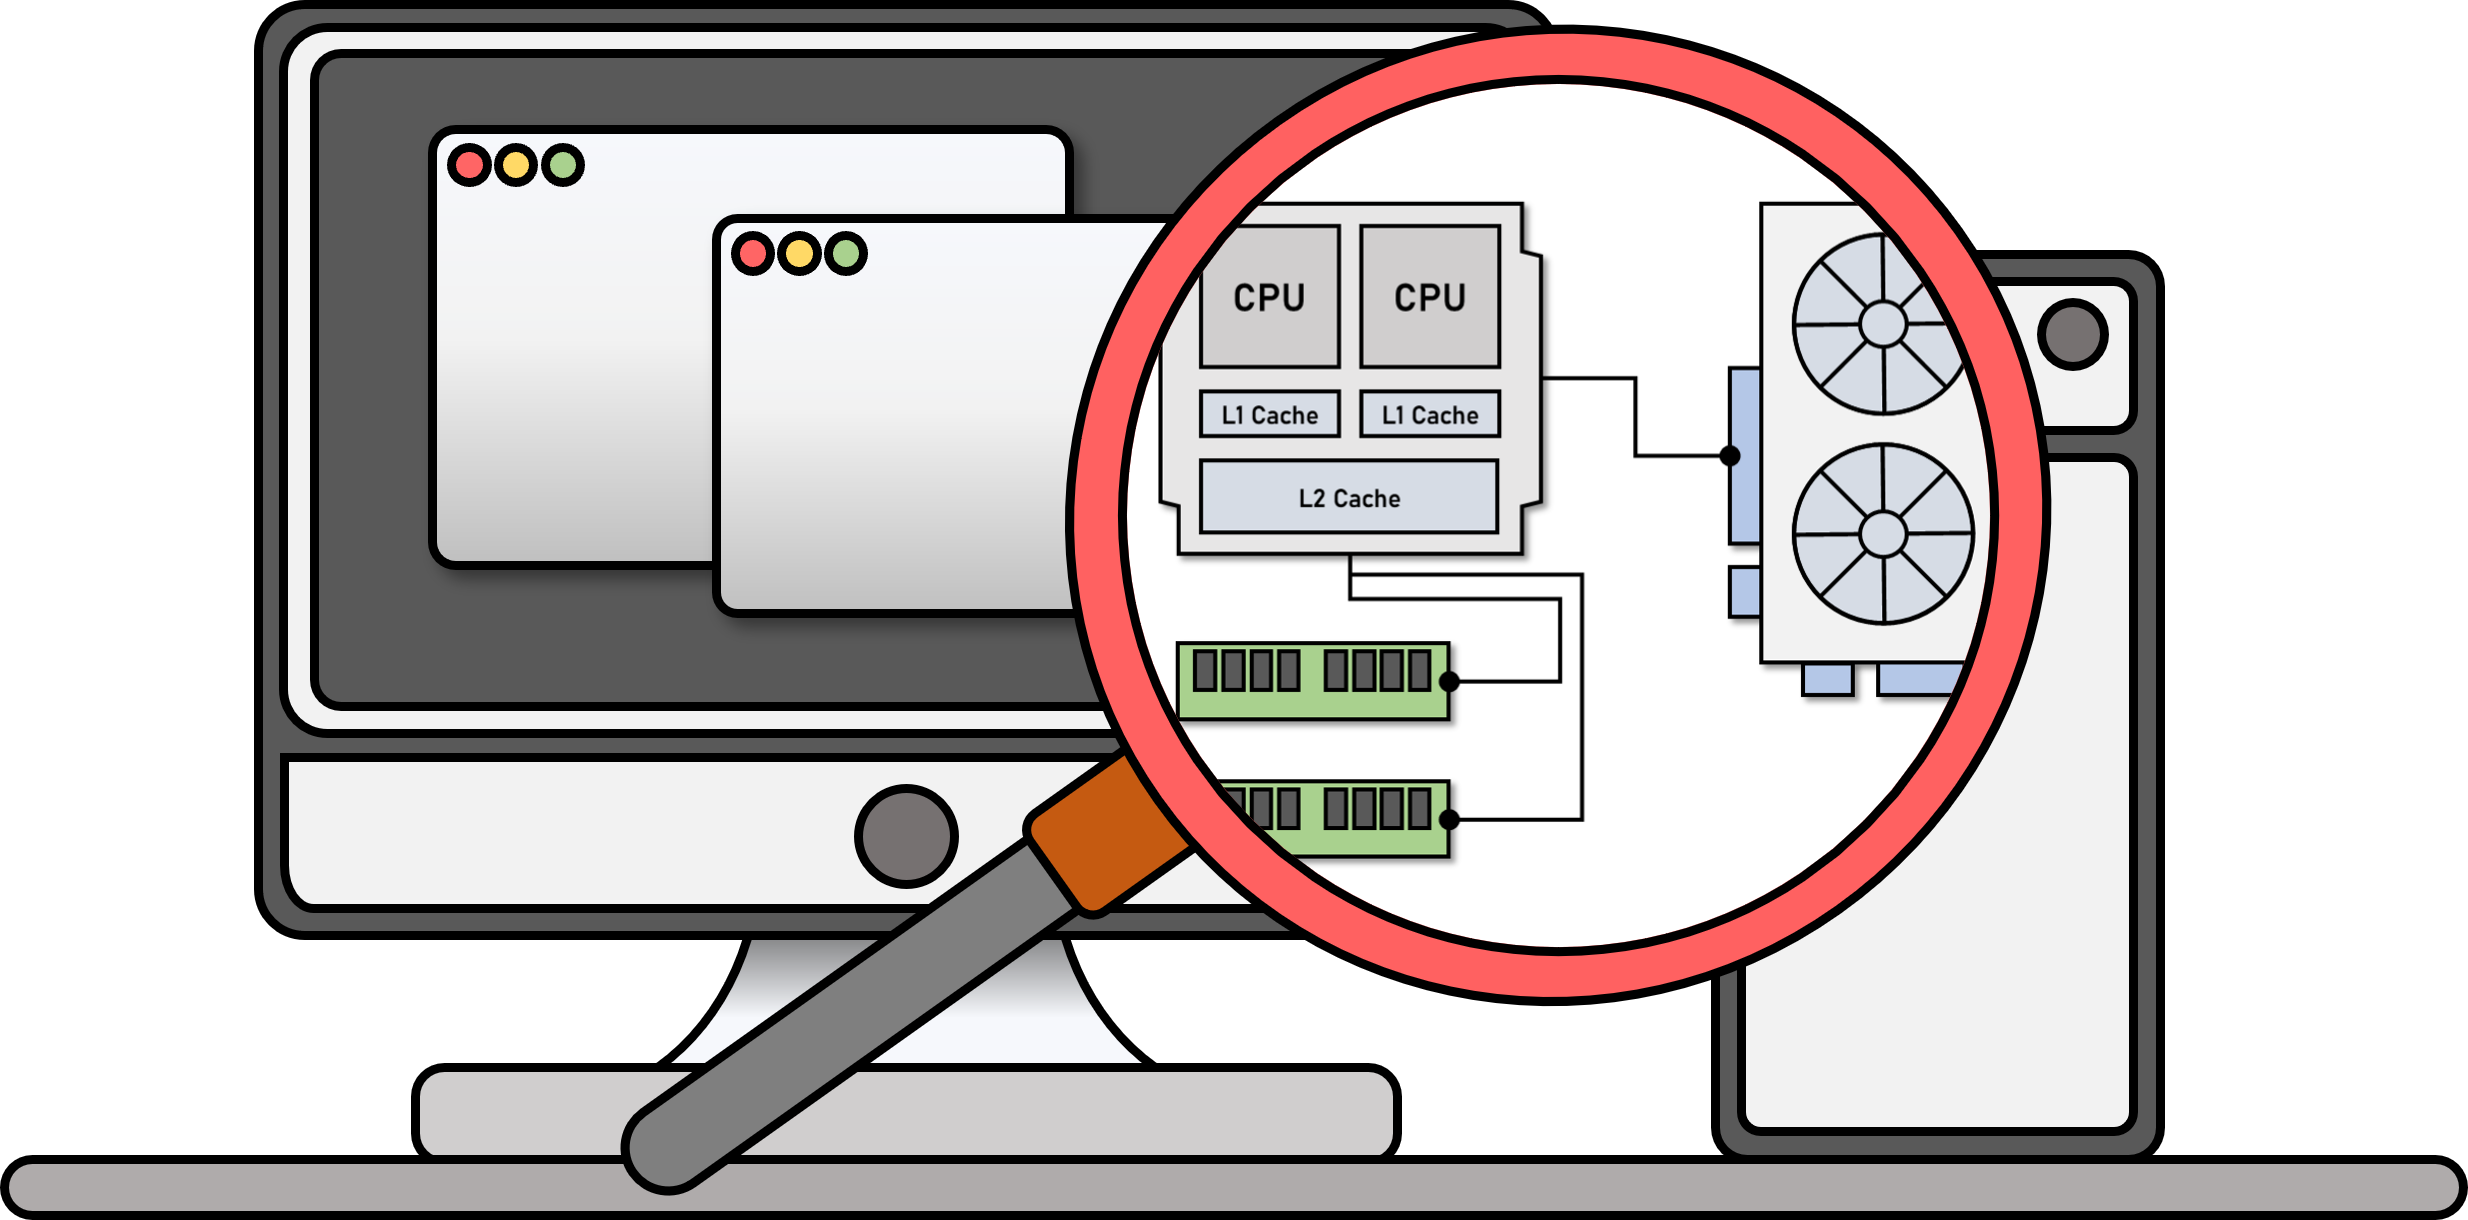
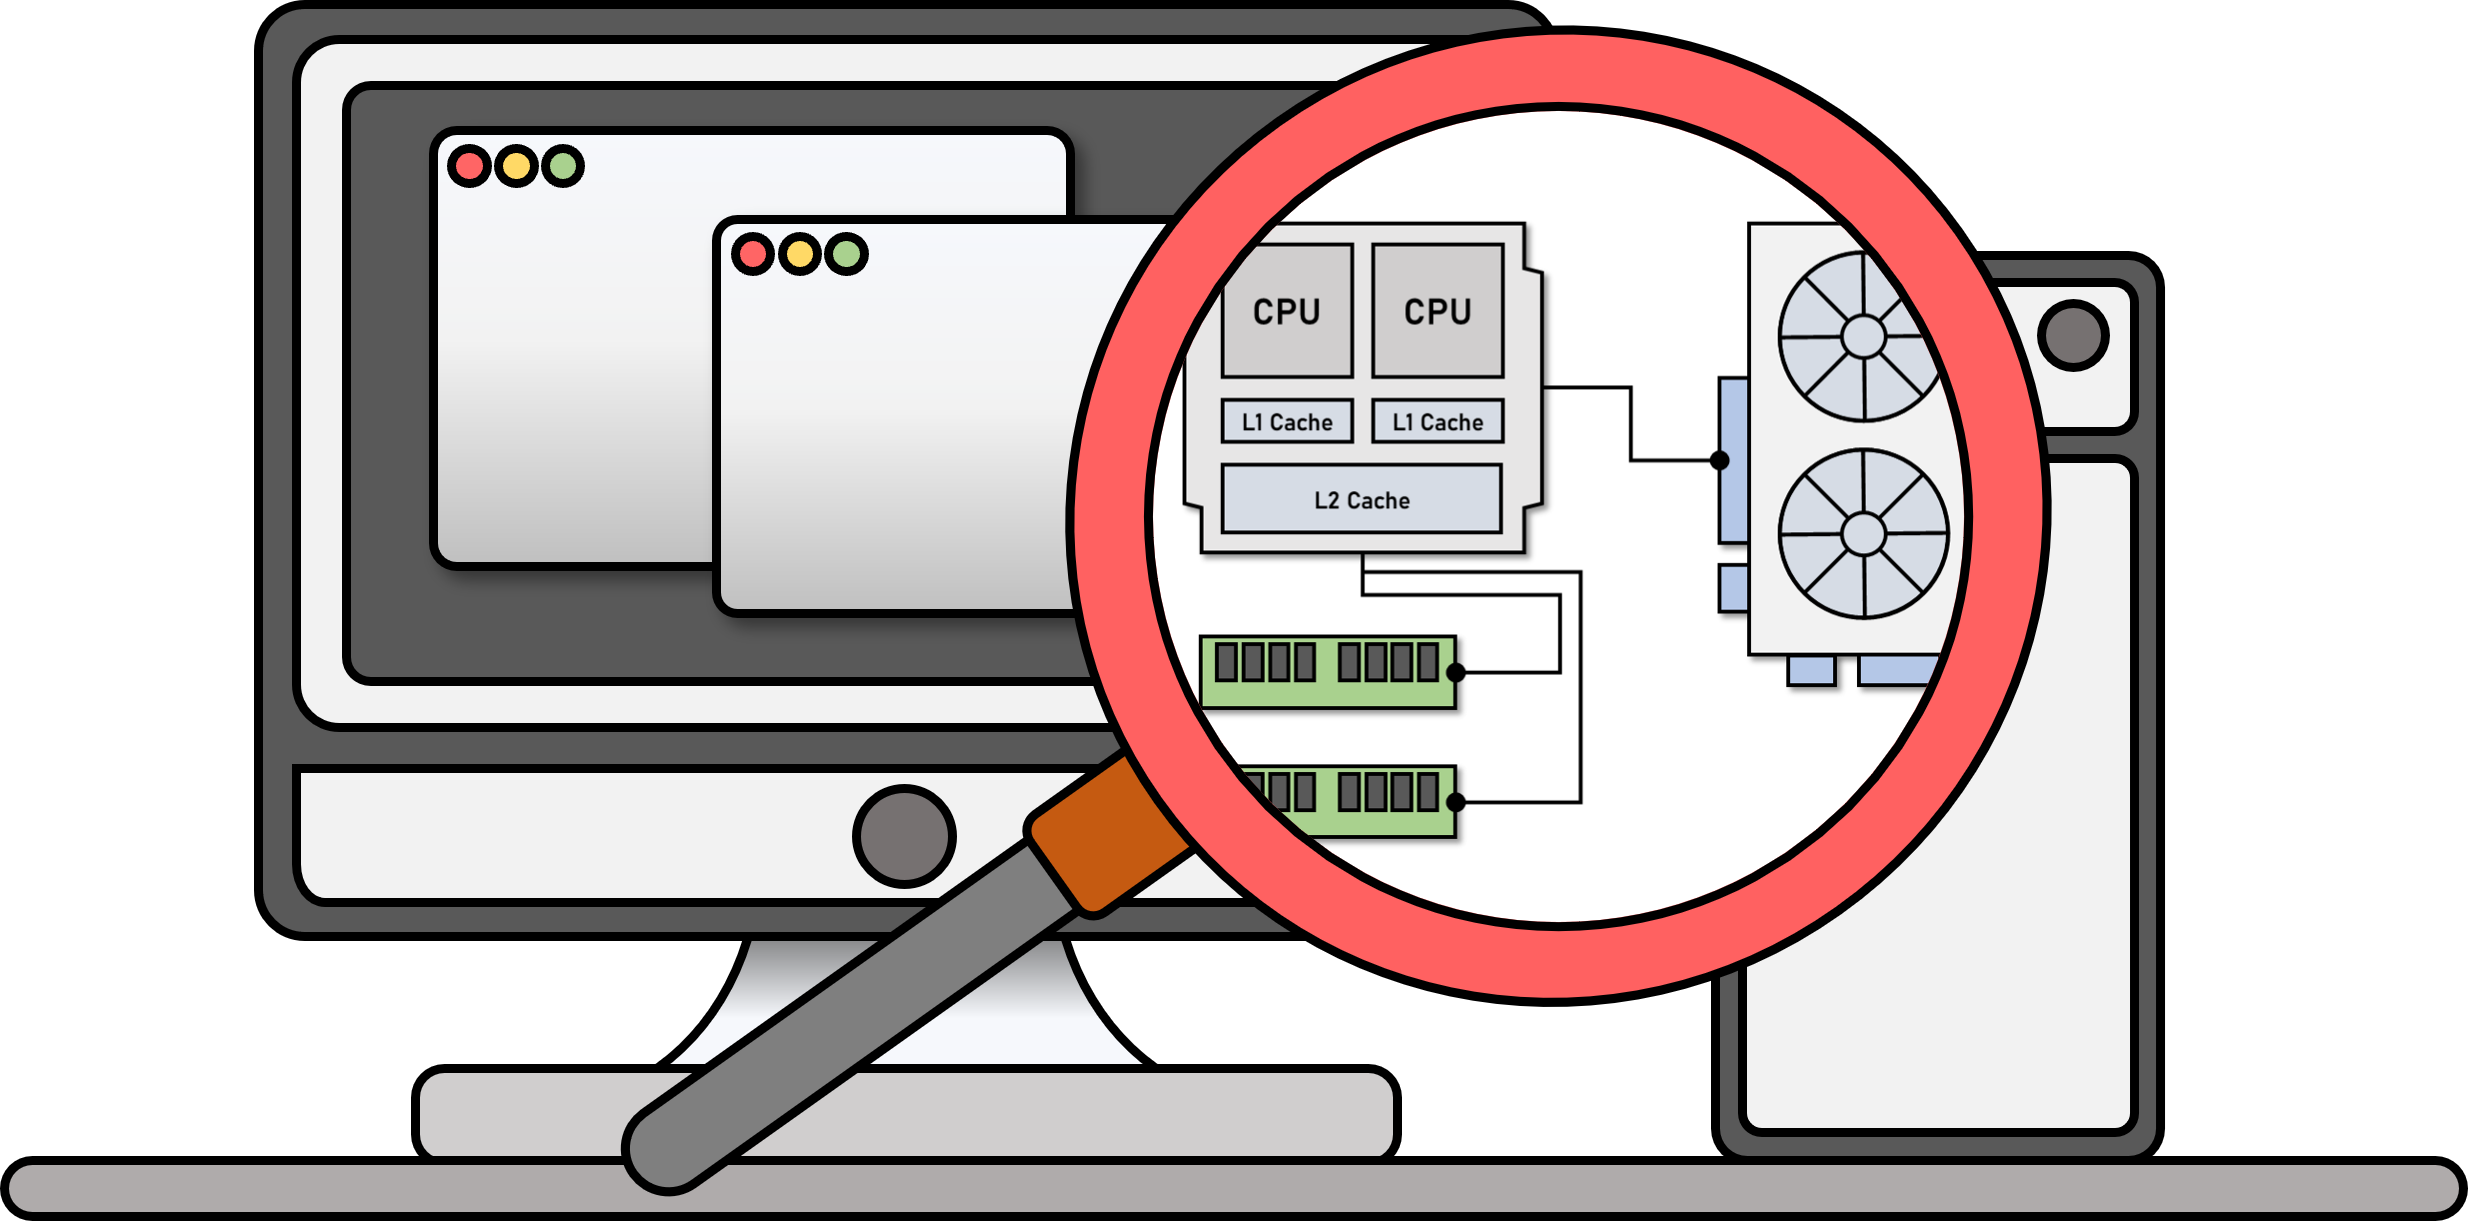
Initial commit

diff --git a/themes/compasslab-theme/layouts/projects/list.html b/themes/compasslab-theme/layouts/projects/list.html
@@ -10,22 +10,27 @@
       </div>
       <div class="row g-4 pb-5">
         {{ range sort (.Paginate .RegularPages).Pages "Weight" }}
-          <!-- START: Project Info -->
-          <div class="col-12 col-lg-8 pb-5">
-            <a class="card text-decoration-none h-100" style="border-width: 0; margin-right: 20px" href="{{ .Permalink }}">
-              <h5 class="text-black-61 custom-link"><b>{{ .Title }}</b></h5>
-              <p class="text-black-61" style="text-align: justify">{{ .Params.Pub_desc }}</p>
-            </a>
-          </div>
-          <!-- END -->
-
-          <!-- START: Project Thumbnail -->
-          <div class="col-12 col-lg-4 pb-5" style="margin: auto;">
-            {{ with (.Resources.ByType "image").GetMatch .Params.Pub_thumbnail }}
-              <img class="" src="{{ .Permalink }}" alt="{{ .Title }}" style="width: 100%">
-            {{ end }}
-          </div>
-          <!-- END -->
+          <a class="card text-decoration-none custom-pub-card-body" style="padding: 20px;" href="{{ .Permalink }}">
+            <div class="row">
+              <!-- START: Project Info -->
+              <div class="col-12 col-lg-8">
+                <div class="text-decoration-none text-black-61 custom-link">
+                  <h5><b>{{ .Title }}</b></h5>
+                  <p style="text-align: justify">{{ .Params.Pub_desc }}</p>
+                </div>
+              </div>
+              <!-- END -->
+  
+              <!-- START: Project Thumbnail -->
+              <div class="col-12 col-lg-4" style="margin: auto;">
+                {{ with (.Resources.ByType "image").GetMatch .Params.Pub_thumbnail }}
+                  <img class="" src="{{ .Permalink }}" alt="{{ .Title }}" style="width: 100%">
+                {{ end }}
+              </div>
+              <!-- END -->
+            </div>
+          </a>
+            
         {{ end }}
       </div>
     </div>

diff --git a/content/projects/memory_system/index.md b/content/projects/memory_system/index.md
@@ -5,7 +5,7 @@ title:  "Memory System"  # publication title
 weight: 20  # print order of projects
 
 params:
-    pub_thumbnail: "thumbnail.png"  # FIXED! DO NOT CHANGE!
+    pub_thumbnail: "thumbnail-ms.png"  # FIXED! DO NOT CHANGE!
     pub_class: "MS"  # FIXED! DO NOT CHANGE!
 
     pub_desc: |
